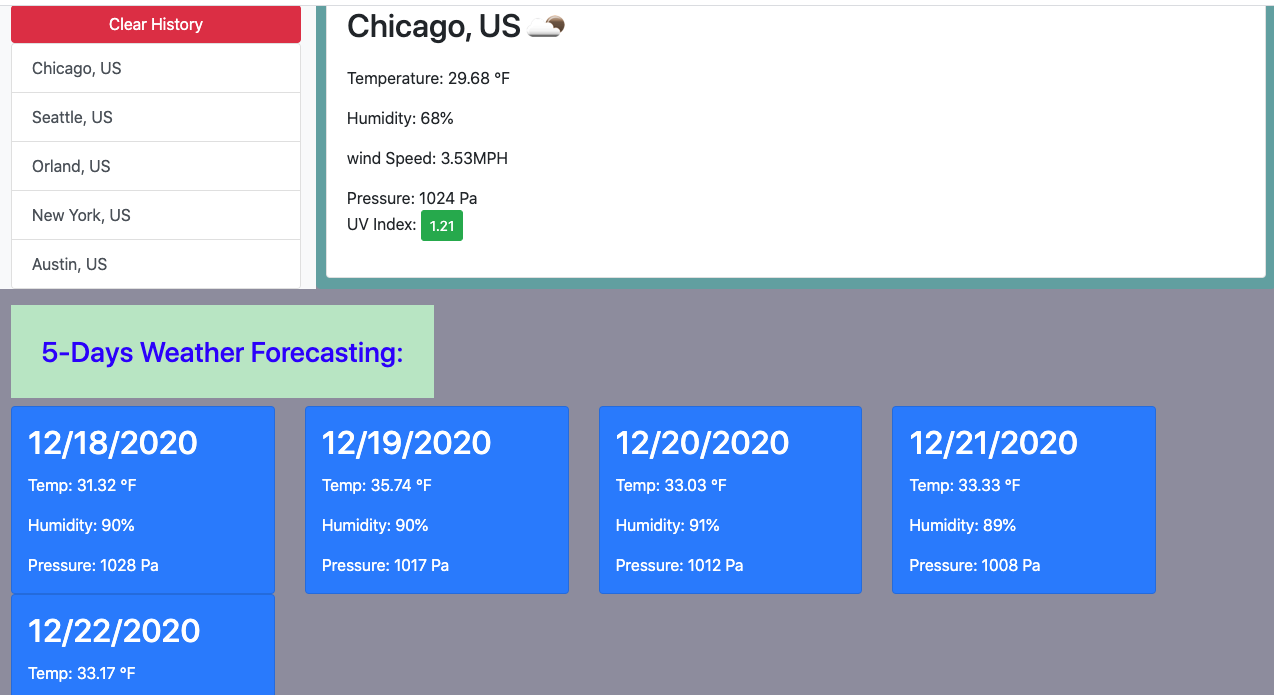
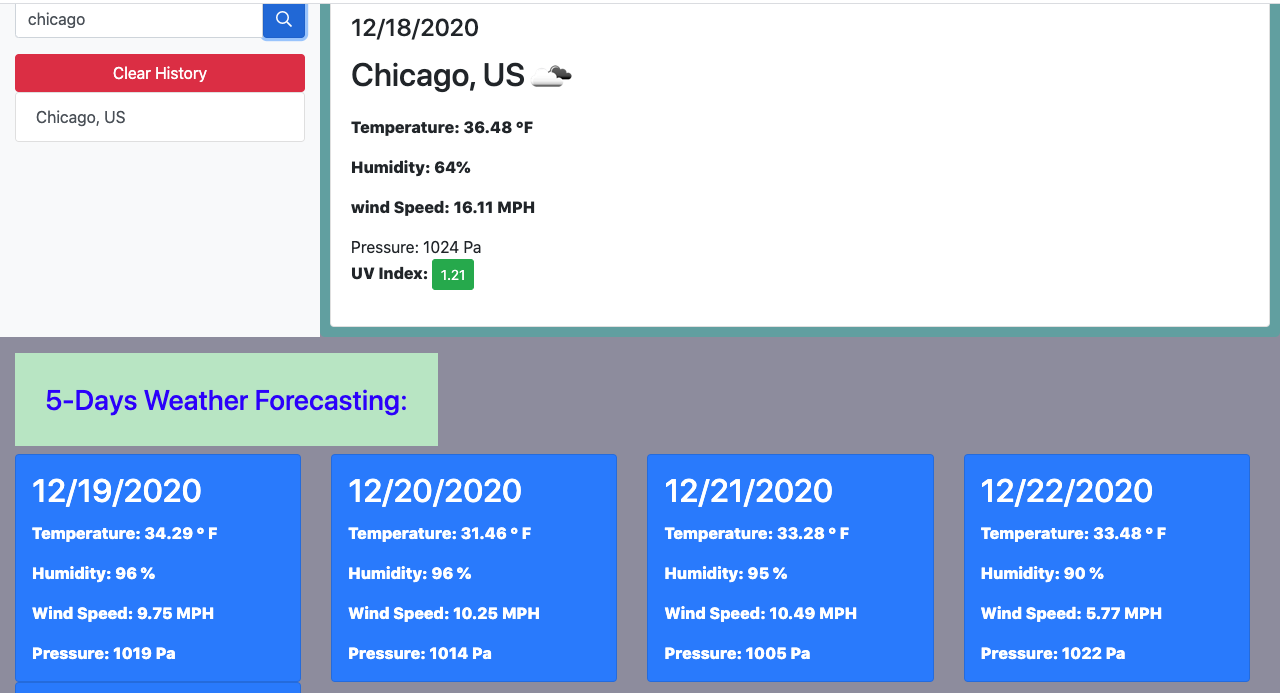
finale updated

diff --git a/README.md b/README.md
@@ -1,11 +1,12 @@
 # weather_dashbord
 
-I made this appilication to show for 5-Days Weather forecasting.It includes Index.html,script.js, sytle.css and Screenshot image it shows 5 city results sample.
+I made this appilication to show for 5-Days Weather forecasting.It includes Index.html,script.js, sytle.css and Screenshot image dayly weather and it shows 5 days weather city results sample.
 in my index.html fontawesome ,bootstrap cdn and my style.css to style the page.
 There is searchbutton for city or country when you click the button there unoder list display and the results of weather date name of the city, country, temp,humidity, WindSpeed and pressure at forecasting.
-At dayly weather forecasting we can find iamge,date, name of the City, Country,Temp, Humdity, Wind speed alititued, longutud and pressure is listed.
+At dayly weather forecasting we can find iamge,date, name of the City, Country,Temp, Humdity, Wind speed alititued, longutud and pressure is listed. 
 
 ![weather_dashbord](Screenshot1.png)
+
 ![weather_dashbord](Screenshot2.png)
 
 
